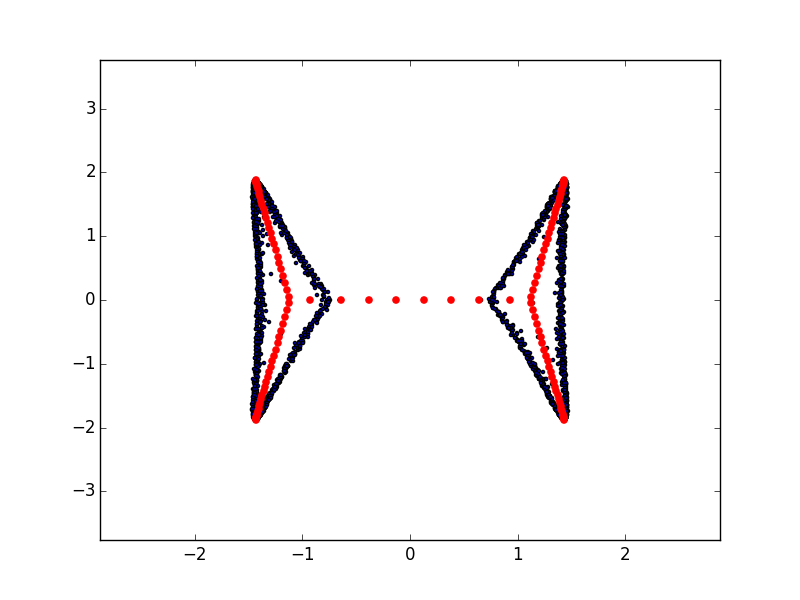
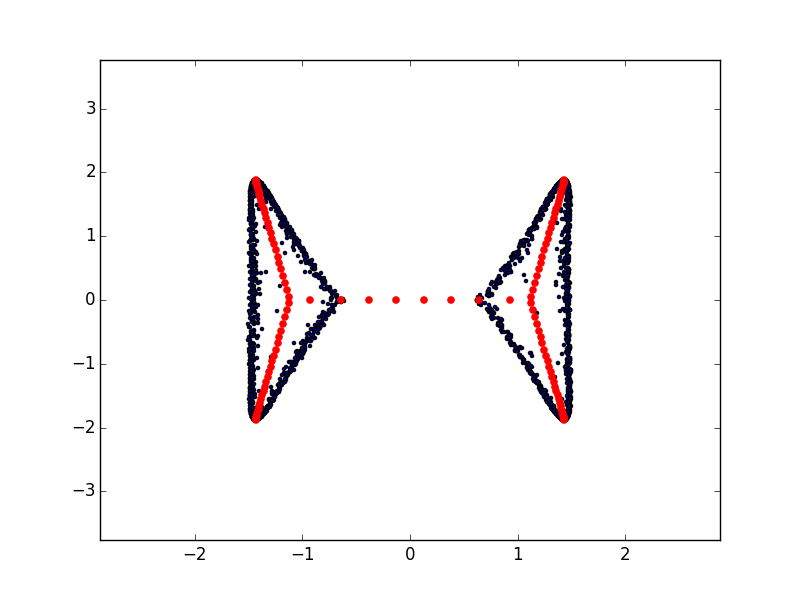
Fixed code error and images in Pseudospectra Lab

Changed region(s): [[0.2812, 0.3, 0.4375, 0.69], [0.5938, 0.3, 0.7188, 0.69]]

diff --git a/Labs/Pseudospectra/ps_code.py b/Labs/Pseudospectra/ps_code.py
@@ -186,7 +186,9 @@ def gen_rand_matrix(n, epsilon):
     real_B = np.random.uniform(low=-1.0, high=1.0, size=(n,n))
     imag_B = np.random.uniform(low=-1.0, high=1.0, size=(n,n))
     B = real_B + imag_B*1.j
-    scale = epsilon/la.norm(B)
+    scale = epsilon/la.norm(B,2)
     B = B*scale
     return B
+
+
     
